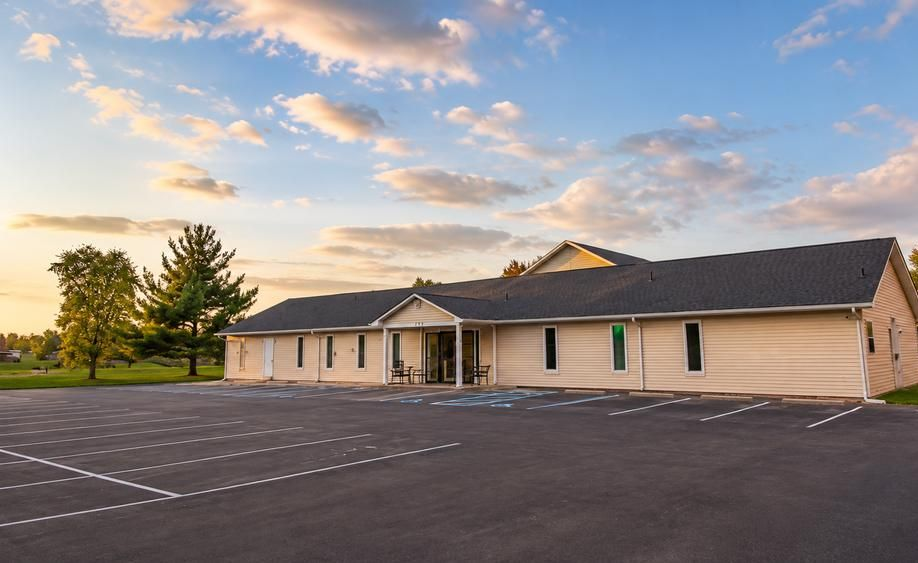
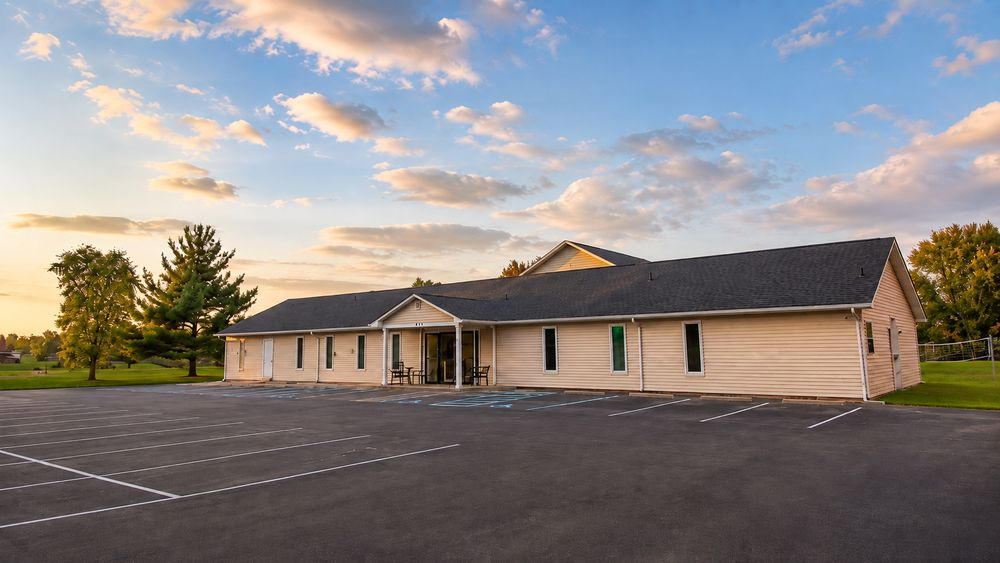
Use the corrected church building photo at full width
The re-supplied image renders the volleyball net properly (real posts and
mesh instead of the smeared artifact), so the earlier right-edge crop is
no longer needed. Restored the full 16:9 frame at 1000x563 (2.1MB PNG ->
80KB JPEG) and cache-busted the src so the new version serves immediately.

diff --git a/index.html b/index.html
@@ -101,7 +101,7 @@
       <a class="btn btn-outline mt-btn" href="about.html">Our Story &amp; Leadership</a>
     </div>
     <div class="media-frame">
-      <img src="img/church-front.jpg" alt="The Calvary Road Baptist Church building at sunset in New Albany, Indiana" width="918" height="563" loading="lazy">
+      <img src="img/church-front.jpg?v=2" alt="The Calvary Road Baptist Church building at sunset in New Albany, Indiana" width="1000" height="563" loading="lazy">
     </div>
   </div>
 </section>
